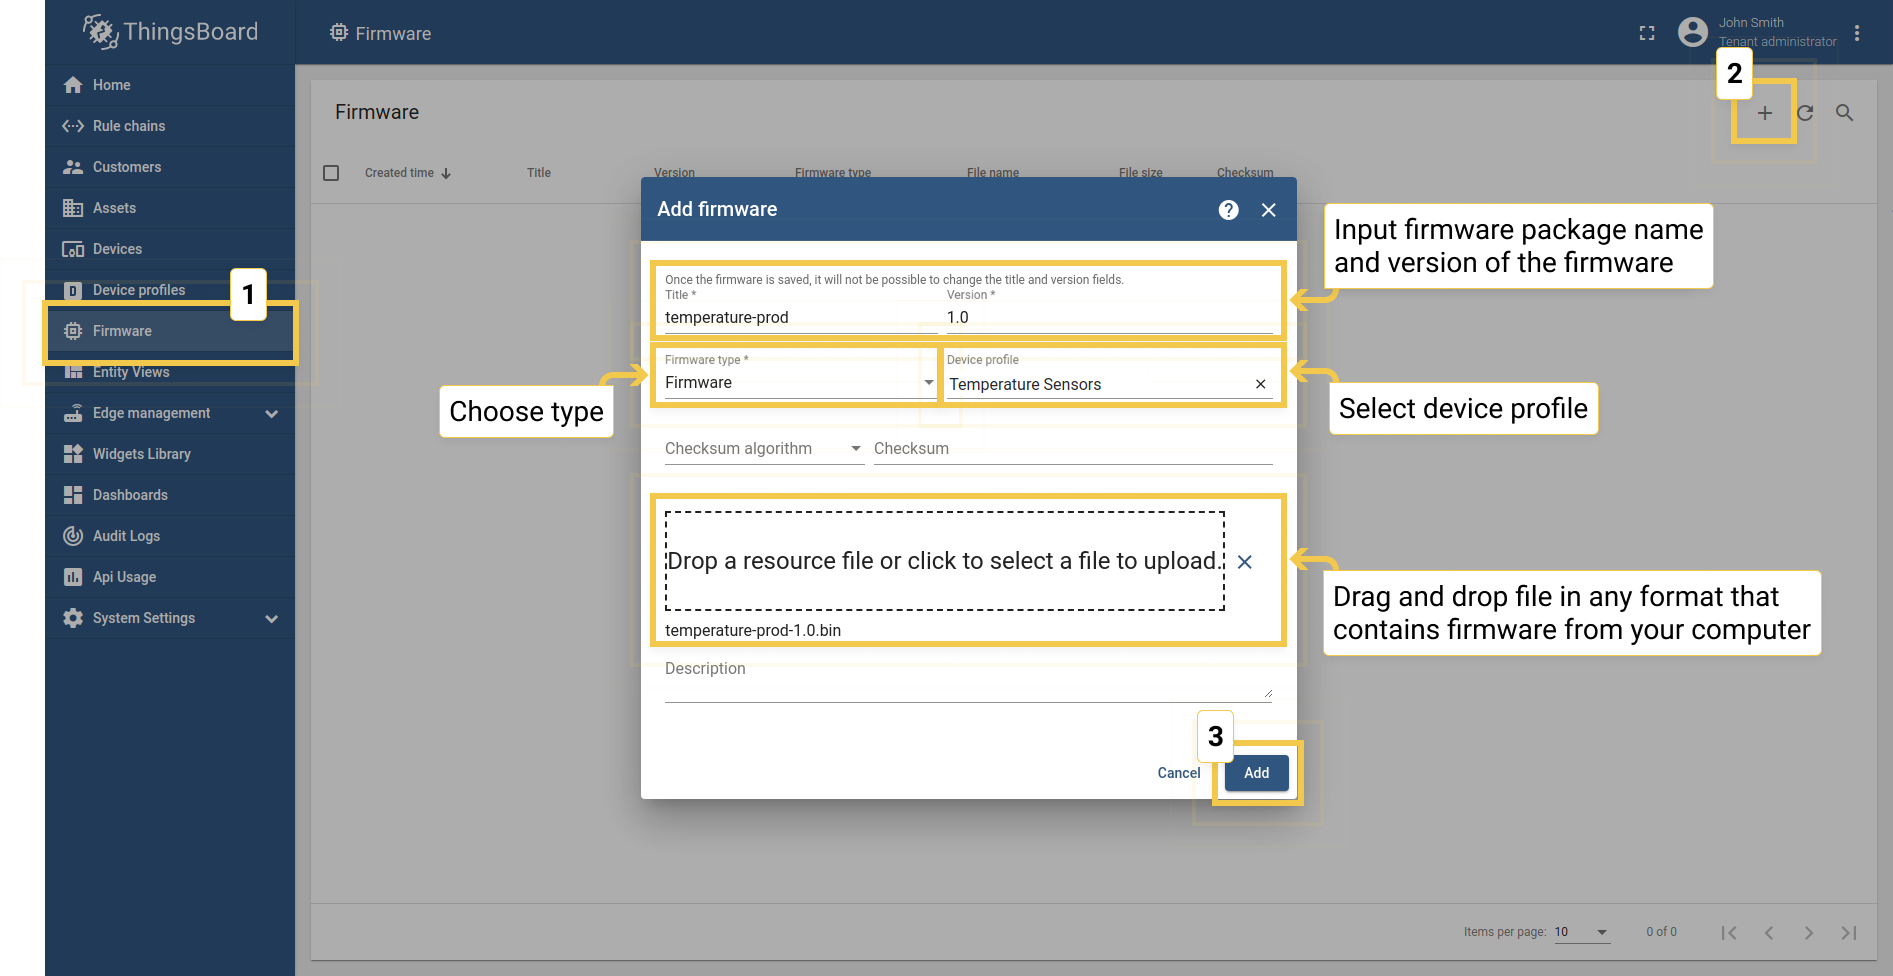
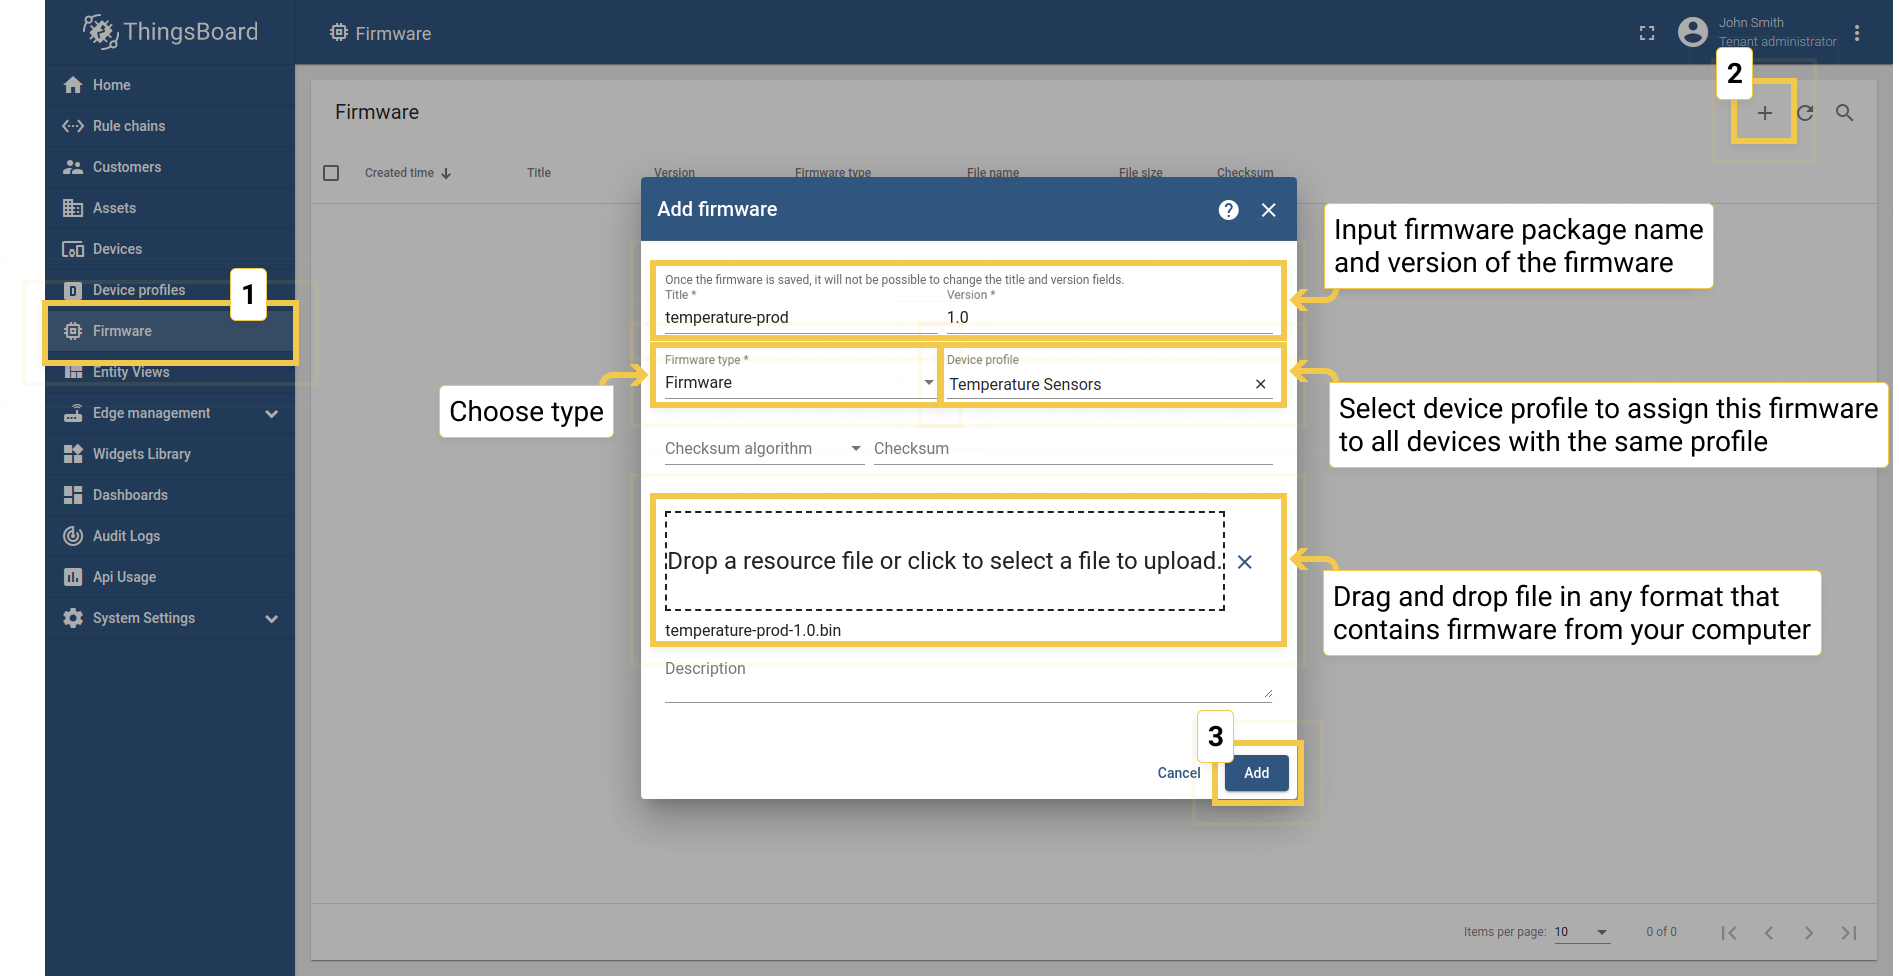
review

diff --git a/_includes/docs/user-guide/firmware.md b/_includes/docs/user-guide/firmware.md
@@ -8,7 +8,7 @@ tenant administrator, you can assign provisioned firmware to specific device or 
 ThingsBoard notifies devices about available firmware update, provide a protocol-specific API to download the firmware, stores
 history of the updates, and provides a dashboard to monitor the update process.
 
-## Provisioning
+## Provision package to the ThingsBoard
 
 Tenant administrator can navigate to the "Firmware" menu item to list and upload firmware updates. 
 Each firmware update consist of:
@@ -18,7 +18,7 @@ Each firmware update consist of:
 * Link to Device Profile - each firmware references a device profile. This helps to prevent accidental updates of devices with incompatible firmware. 
   Link to a device profile means that this device *may* be updated to the current firmware. 
   However, the update is not triggered, until the user or script [assigns](#assignment) the firmware to the device profile or device.
-* Type - can be either *Firmware* or *Software*. Each device can have an MCU firmware.     
+* Type - can be either *Firmware* or *Software*.    
 * Checksum algorithm - optional parameter, it is a short name of the checksum algorithm to use. 
 * Checksum - optional parameter, it's a value of the file checksum. If no checksum provided by the user, server will use SHA-256 algorithm automatically.
 * Description - optional text description of the firmware. 
@@ -33,23 +33,24 @@ Also, in [Audit logs](/docs/{{docsPrefix}}user-guide/audit-log/) you can browse 
 
 All actions listed are also available via [REST API](/docs/{{docsPrefix}}reference/rest-api/).
 
-## Assignment
+## Assign package to device
 
-Tenant administrator can assign uploaded firmware to the device profile or particular device. Customers also can assign a firmware to
-their devices, but only the already existed one.
-The firmware version assigned to the device will automatically overwrite firmware version that is assigned to the device profile.
+Assignment can happen via Device profile. When you assign firmware through the Device profile, it is automatically distribute to all devices with the same device profile.
+However, please notice that to all devices with this profile will be sent notification about the updating.
+Exception will be devices that have already had this firmware, and devices with other device profiles, they won't receive update notification.
 
-{% include images-gallery.html imageCollection="deviceFirmware" %}
-
-You can also assign firmware via Device profile. With this field, we define what type of device this firmware will be available.
-However, please notice that when you assign firmware through device profile, to all devices with this profile will be sent notification about the updating. 
-Exception will be devices that have already had this firmware, they won't receive update notification.
-
-**NOTE:** One firmware can be used by only one Device Profile. 
-The Firmware that is assigned to the Device Profile can be overridden on the Device level. 
-If the firmware was assigned on the lower level, the firmware changes on the higher level do not affect the entity.
+**NOTE:** One firmware can be used by only one Device Profile.
 
 {% include images-gallery.html imageCollection="fw-deviceprofile" %}
+
+Tenant administrator can assign uploaded firmware to the particular device. 
+The firmware version assigned to the device will automatically overwrite firmware version that is assigned to the device profile.
+Customers also can assign a firmware, but can't provision one.
+
+The Firmware that is assigned to the Device Profile will be overridden on the Device level.
+If the firmware was assigned on the lower level, the firmware changes on the higher level do not affect the entity.
+
+{% include images-gallery.html imageCollection="deviceFirmware" %}
 
 {% capture delete_restrictions %}
 Deletion of the firmware packages that is assigned to at least one device or device profile is prohibited.
